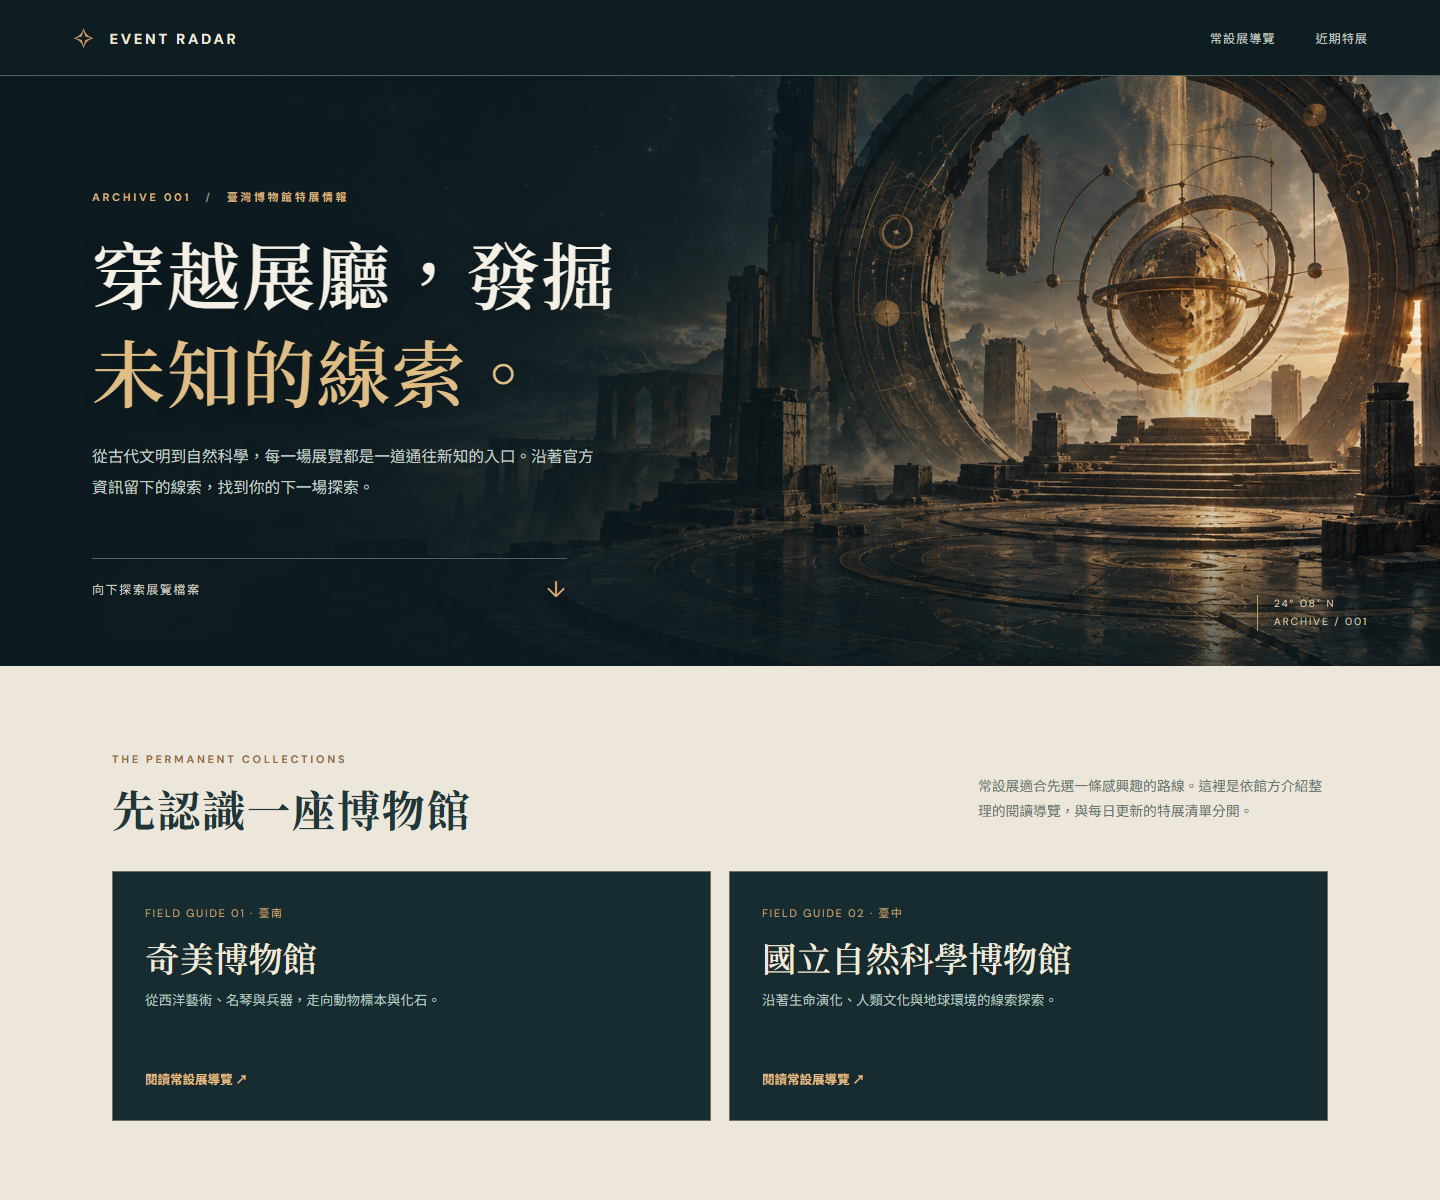
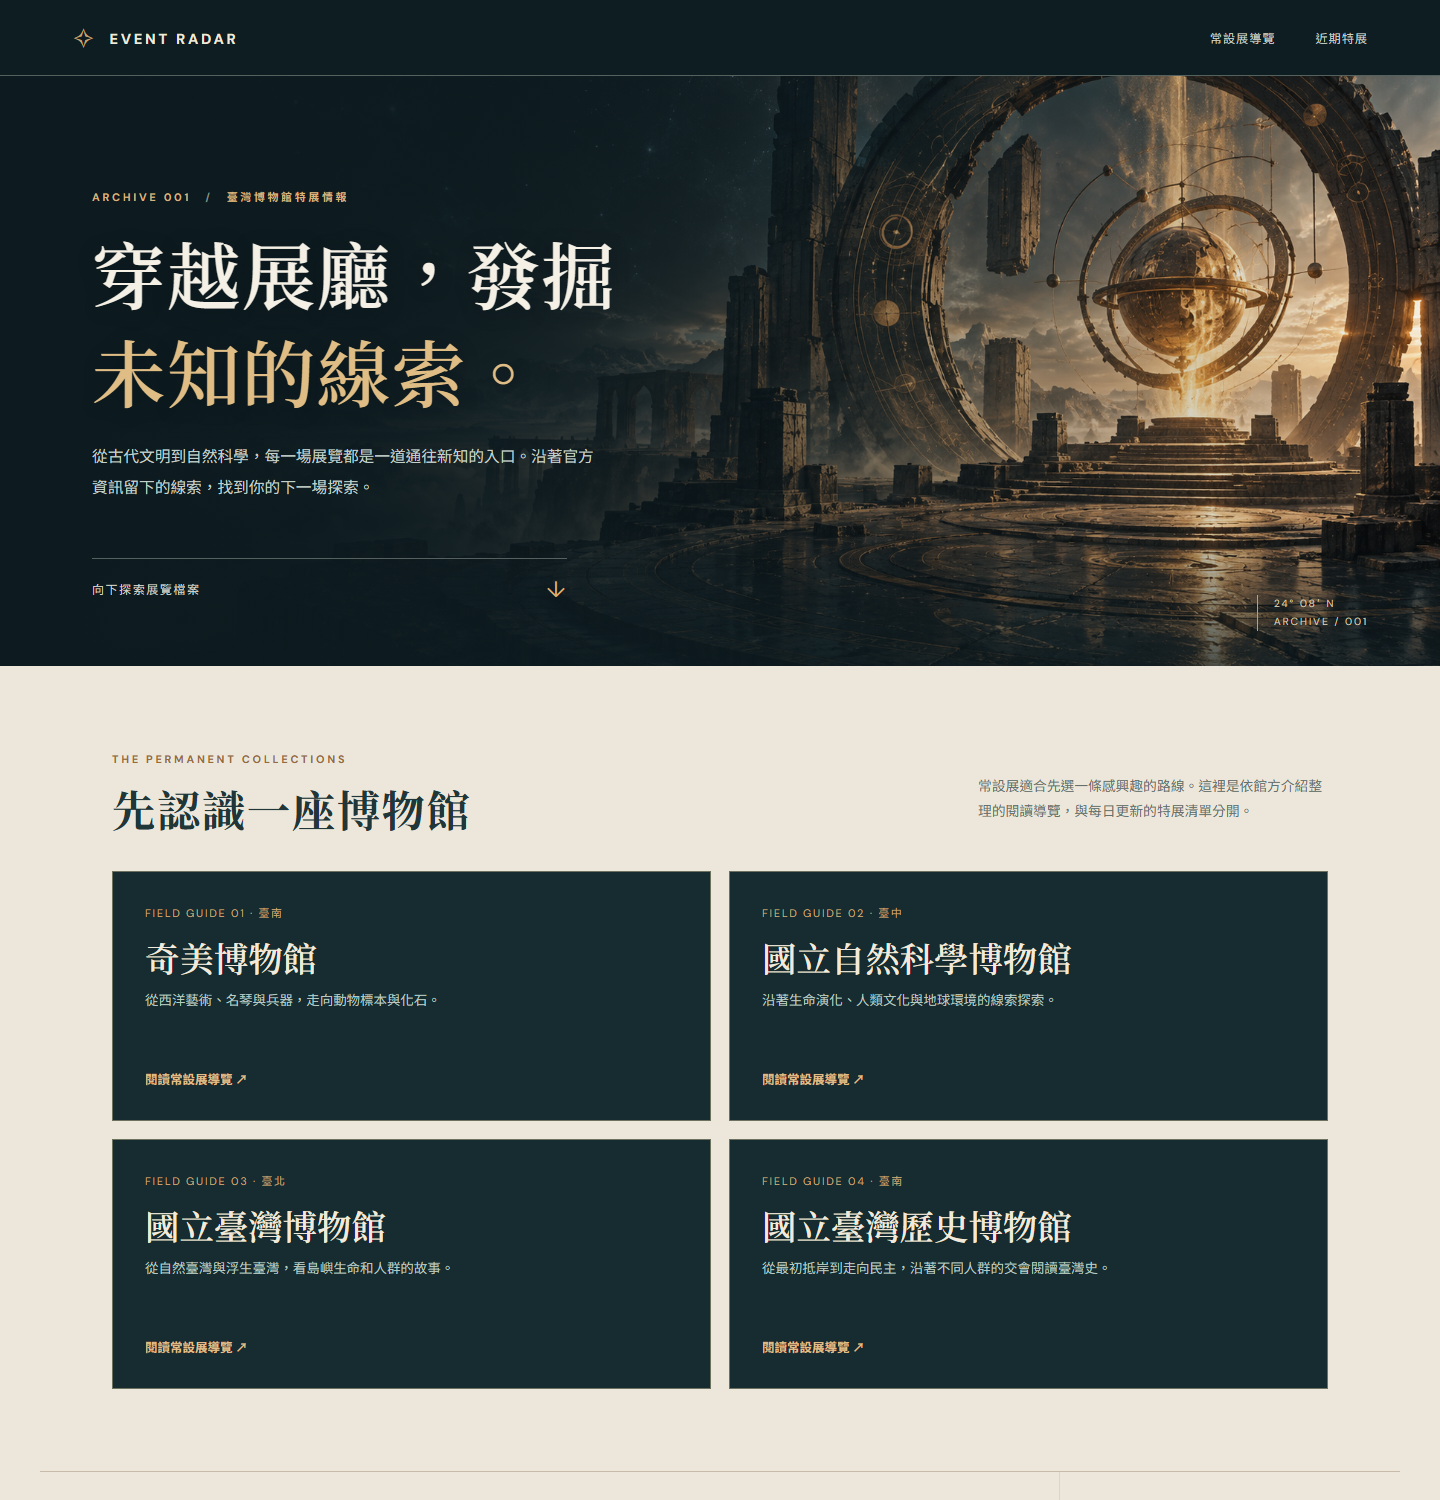
Expand sourced permanent exhibition guides

diff --git a/web/guides/nmth.html b/web/guides/nmth.html
@@ -1,0 +1,29 @@
+<!doctype html>
+<html lang="zh-Hant">
+<head>
+  <meta charset="utf-8">
+  <meta name="viewport" content="width=device-width, initial-scale=1">
+  <meta name="theme-color" content="#142b30">
+  <meta name="description" content="Event Radar 國立臺灣歷史博物館常設展導覽：以「斯土斯民：臺灣的故事」的交會視角認識臺灣歷史。">
+  <title>國立臺灣歷史博物館常設展導覽｜Event Radar</title>
+  <link rel="stylesheet" href="/styles.css">
+</head>
+<body>
+  <a class="skip" href="#guide-content">跳到導覽內容</a>
+  <header class="topbar"><a class="brand" href="/" aria-label="Event Radar 首頁"><span class="brand-mark" aria-hidden="true">✧</span> EVENT RADAR</a><nav class="site-nav" aria-label="主要導覽"><a href="/#guides">其他館所</a><a href="/#explore-title">近期特展</a></nav></header>
+  <main id="guide-content" class="field-guide">
+    <div class="guide-banner"><p class="eyebrow">FIELD GUIDE 04 / 臺南</p><h1>國立臺灣歷史博物館</h1><p>「斯土斯民：臺灣的故事」從交會出發，讓不同時代、不同位置的人們共同說出這座島嶼的歷史。可以先讀這份簡短路線，再進入館方線上展區。</p><a href="https://the.nmth.gov.tw/nmth/zh-TW/Home/PermanentExhibition" target="_blank" rel="noopener noreferrer">探索館方常設展 ↗</a></div>
+    <div class="guide-content">
+      <p class="guide-caveat">依國立臺灣歷史博物館官方線上常設展整理；最後核對：2026/10/04。以下三段是本站的閱讀分組，並非館方原有分區名稱；本館特展尚未接入本站同步。現場展品與開放資訊請以館方公告為準。</p>
+      <div class="guide-lede"><span>閱讀路線 / 03</span><h2>從抵岸到共同書寫</h2><p>把「交會」當成提問：誰來到這裡？他們如何互動？又有哪些聲音曾被忽略？</p></div>
+      <div class="trail-list">
+        <article class="trail"><span>01 / 抵岸</span><div><h3>最初的人群與海上的往來</h3><p>館方從「最初的抵岸」與「倚海而生的島與人」說起。文字紀錄之前已有多波人群來到臺灣；後來海上貿易又讓更多文化在此相遇。</p><a href="https://the.nmth.gov.tw/nmth/zh-TW/Home/PermanentExhibition" target="_blank" rel="noopener noreferrer">館方線上展區 ↗</a></div></article>
+        <article class="trail"><span>02 / 共處</span><div><h3>山海之間的生活與競逐</h3><p>不同人群在村落、產業與土地上相互合作，也有衝突。閱讀這段歷史時，可以留意同一事件在不同當事人眼中的樣貌。</p><a href="https://the.nmth.gov.tw/nmth/zh-TW/Home/PermanentExhibition" target="_blank" rel="noopener noreferrer">館方線上展區 ↗</a></div></article>
+        <article class="trail"><span>03 / 發聲</span><div><h3>新秩序、民主與每個人的歷史</h3><p>常設展接著討論日本統治時期的變革、戰後社會與民主化。最後也把問題交給觀眾：誰有機會留下記錄，誰的故事還值得被聽見？</p><a href="https://the.nmth.gov.tw/nmth/zh-TW/Home/PermanentExhibition" target="_blank" rel="noopener noreferrer">館方線上展區 ↗</a></div></article>
+      </div>
+      <div class="guide-next"><p>這座館的近期特展尚未接入本站資料庫。</p><a href="https://www.nmth.gov.tw/" target="_blank" rel="noopener noreferrer">到臺史博官網查最新展覽 ↗</a></div>
+    </div>
+  </main>
+  <footer><span>EVENT RADAR <small>© 2026</small></span><p>館方介紹為準。本站為獨立整理，並非博物館官方網站。</p></footer>
+</body>
+</html>

diff --git a/web/guides/ntm.html b/web/guides/ntm.html
@@ -1,0 +1,28 @@
+<!doctype html>
+<html lang="zh-Hant">
+<head>
+  <meta charset="utf-8">
+  <meta name="viewport" content="width=device-width, initial-scale=1">
+  <meta name="theme-color" content="#142b30">
+  <meta name="description" content="Event Radar 國立臺灣博物館常設展導覽：從「博物臺灣」的自然臺灣、浮生臺灣兩條主軸認識島嶼。">
+  <title>國立臺灣博物館常設展導覽｜Event Radar</title>
+  <link rel="stylesheet" href="/styles.css">
+</head>
+<body>
+  <a class="skip" href="#guide-content">跳到導覽內容</a>
+  <header class="topbar"><a class="brand" href="/" aria-label="Event Radar 首頁"><span class="brand-mark" aria-hidden="true">✧</span> EVENT RADAR</a><nav class="site-nav" aria-label="主要導覽"><a href="/#guides">其他館所</a><a href="/#explore-title">近期特展</a></nav></header>
+  <main id="guide-content" class="field-guide">
+    <div class="guide-banner"><p class="eyebrow">FIELD GUIDE 03 / 臺北</p><h1>國立臺灣博物館</h1><p>「博物臺灣」把島嶼的自然與人群放在同一幅圖景裡。看見化石、標本，也看見不同族群如何在這片土地生活。</p><a href="https://www.ntm.gov.tw/News_Content.aspx?n=5651&amp;s=147780" target="_blank" rel="noopener noreferrer">閱讀館方「博物臺灣」介紹 ↗</a></div>
+    <div class="guide-content">
+      <p class="guide-caveat">依國立臺灣博物館官方「博物臺灣」介紹整理；最後核對：2026/10/04。這是靜態導覽，展品可能輪替；本館特展尚未接入本站同步。出發前請確認館方展覽與開放公告。</p>
+      <div class="guide-lede"><span>閱讀路線 / 02</span><h2>同一座島嶼的兩種觀看方式</h2><p>館方將「博物臺灣」分成自然與人文兩座展廳，位於本館二樓。</p></div>
+      <div class="trail-list">
+        <article class="trail"><span>01 / 自然</span><div><h3>自然臺灣：島嶼如何成形？</h3><p>從遠古生命、地形地貌到生態多樣性，觀察環境如何塑造棲息在臺灣的生物。看標本時，可以想想牠與所在棲地的關係。</p><a href="https://www.ntm.gov.tw/News_Content.aspx?n=5651&amp;s=147780" target="_blank" rel="noopener noreferrer">館方展廳介紹 ↗</a></div></article>
+        <article class="trail"><span>02 / 人文</span><div><h3>浮生臺灣：人們如何在此相遇？</h3><p>透過文物與創作，閱讀不同時代的人、家庭、信仰與移動。它不是單一族群的直線故事，而是多種經驗交織的島嶼記憶。</p><a href="https://www.ntm.gov.tw/News_Content.aspx?n=5651&amp;s=147780" target="_blank" rel="noopener noreferrer">館方展廳介紹 ↗</a></div></article>
+      </div>
+      <div class="guide-next"><p>這座館的近期特展尚未接入本站資料庫。</p><a href="https://www.ntm.gov.tw/" target="_blank" rel="noopener noreferrer">到臺博館官網查最新展覽 ↗</a></div>
+    </div>
+  </main>
+  <footer><span>EVENT RADAR <small>© 2026</small></span><p>館方介紹為準。本站為獨立整理，並非博物館官方網站。</p></footer>
+</body>
+</html>

diff --git a/web/index.html b/web/index.html
@@ -34,6 +34,8 @@
       <div class="guide-grid">
         <a class="guide-tile" href="/guides/chimei.html"><span>FIELD GUIDE 01 · 臺南</span><strong>奇美博物館</strong><p>從西洋藝術、名琴與兵器，走向動物標本與化石。</p><b>閱讀常設展導覽 ↗</b></a>
         <a class="guide-tile" href="/guides/nmns.html"><span>FIELD GUIDE 02 · 臺中</span><strong>國立自然科學博物館</strong><p>沿著生命演化、人類文化與地球環境的線索探索。</p><b>閱讀常設展導覽 ↗</b></a>
+        <a class="guide-tile" href="/guides/ntm.html"><span>FIELD GUIDE 03 · 臺北</span><strong>國立臺灣博物館</strong><p>從自然臺灣與浮生臺灣，看島嶼生命和人群的故事。</p><b>閱讀常設展導覽 ↗</b></a>
+        <a class="guide-tile" href="/guides/nmth.html"><span>FIELD GUIDE 04 · 臺南</span><strong>國立臺灣歷史博物館</strong><p>從最初抵岸到走向民主，沿著不同人群的交會閱讀臺灣史。</p><b>閱讀常設展導覽 ↗</b></a>
       </div>
     </section>
 

diff --git a/src/server.ts b/src/server.ts
@@ -39,6 +39,8 @@ const staticFiles = new Map<string, [string, string]>([
   ['/', ['../web/index.html', 'text/html; charset=utf-8']],
   ['/guides/chimei.html', ['../web/guides/chimei.html', 'text/html; charset=utf-8']],
   ['/guides/nmns.html', ['../web/guides/nmns.html', 'text/html; charset=utf-8']],
+  ['/guides/ntm.html', ['../web/guides/ntm.html', 'text/html; charset=utf-8']],
+  ['/guides/nmth.html', ['../web/guides/nmth.html', 'text/html; charset=utf-8']],
   ['/styles.css', ['../web/styles.css', 'text/css; charset=utf-8']],
   ['/app.js', ['../web/app.js', 'text/javascript; charset=utf-8']],
   ['/assets/hero-ruins.png', ['../web/assets/hero-ruins.png', 'image/png']],

diff --git a/README.md b/README.md
@@ -4,7 +4,7 @@
 
 目標是從臺灣各博物館的官方資訊取得特展資料，整理展期、展館、城市與簡介，供人依地點與日期查詢，並回到官方公告核對。第一版聚焦**特展與期間限定展**，不收市集、音樂會或一般演出。
 
-目前是 **v0.1 本機 MVP**：資料庫、查詢 API、科博館公開資料匯入、奇美人工整理資料、兩館常設展靜態導覽、驗證測試與來源盤點已寫入並完成本機驗證。每日同步排程尚未啟用，也尚未公開部署，因此不列為作品集中的已完成系統。
+目前是 **v0.1 本機 MVP**：資料庫、查詢 API、科博館公開資料匯入、奇美人工整理資料、四館常設展靜態導覽、驗證測試與來源盤點已寫入並完成本機驗證。每日同步排程尚未啟用，也尚未公開部署，因此不列為作品集中的已完成系統。
 
 ## 範圍
 
@@ -12,7 +12,7 @@
 - **第二批**：國立科學工藝博物館、國立臺灣美術館、臺南市美術館。
 - 奇美已列入資料來源表。官網有特展頁；目前未查到公開活動 API 文件，先用可追溯的人工整理資料驗證產品流程，再確認正式取得方式與授權。
 - 科博館的[官方公開特展 JSON 資料集](https://data.gov.tw/dataset/7499)可先介接；個人 API key 另候審查。公開資源網址從政府平台取得，放在本機 `NMNS_OPEN_DATA_URL`，不硬寫在程式。私人金鑰也不提交到 Git。
-- 首頁的「常設展導覽」另外提供[奇美](web/guides/chimei.html)與[科博館](web/guides/nmns.html)兩頁人工編寫介紹。它們不是 API 同步資料，頁面標示最後核對日期，並分別連向館方展廳介紹；開放狀態須以館方最新公告為準。
+- 首頁的「常設展導覽」另有[奇美](web/guides/chimei.html)、[科博館](web/guides/nmns.html)、[臺博館](web/guides/ntm.html)與[臺史博](web/guides/nmth.html)四頁人工編寫介紹。它們不是 API 同步資料，頁面標示最後核對日期並連向館方資訊；開放狀態須以館方最新公告為準。臺博館與臺史博的近期特展尚未接入本站資料庫。
 
 詳見 [需求規格](docs/requirements.md)、[API 契約](docs/api.md)、[來源盤點](docs/sources.md)與[每日同步運作設計](docs/operations.md)。
 

diff --git a/docs/sources.md b/docs/sources.md
@@ -13,6 +13,10 @@
 
 盤點狀態只說明資料入口存在，**不代表**取得許可、API 可用或已自動擷取。優先順序依產品題材與地域平衡，不以館所價值排名。
 
+## 常設展靜態導覽的依據
+
+首頁的常設展頁面由人工撰寫，不計入上表的特展資料取得狀態。臺博館頁依[「博物臺灣」館方介紹](https://www.ntm.gov.tw/News_Content.aspx?n=5651&s=147780)整理自然臺灣、浮生臺灣兩個展廳；臺史博頁依[官方線上常設展](https://the.nmth.gov.tw/nmth/zh-TW/Home/PermanentExhibition)整理閱讀路線。兩館特展尚未匯入資料庫，頁面因此連回館方查最新展覽。
+
 ## 中央平台評估
 
 - [文化部「展覽資訊」資料集](https://data.gov.tw/dataset/6012)：比「藝文活動所有類別」更貼近本產品，含展名、展期、場地及來源名稱，採政府資料開放授權條款第 1 版，更新頻率每日。可作第二條自動來源，但需確認館所覆蓋率及同展重複紀錄。
